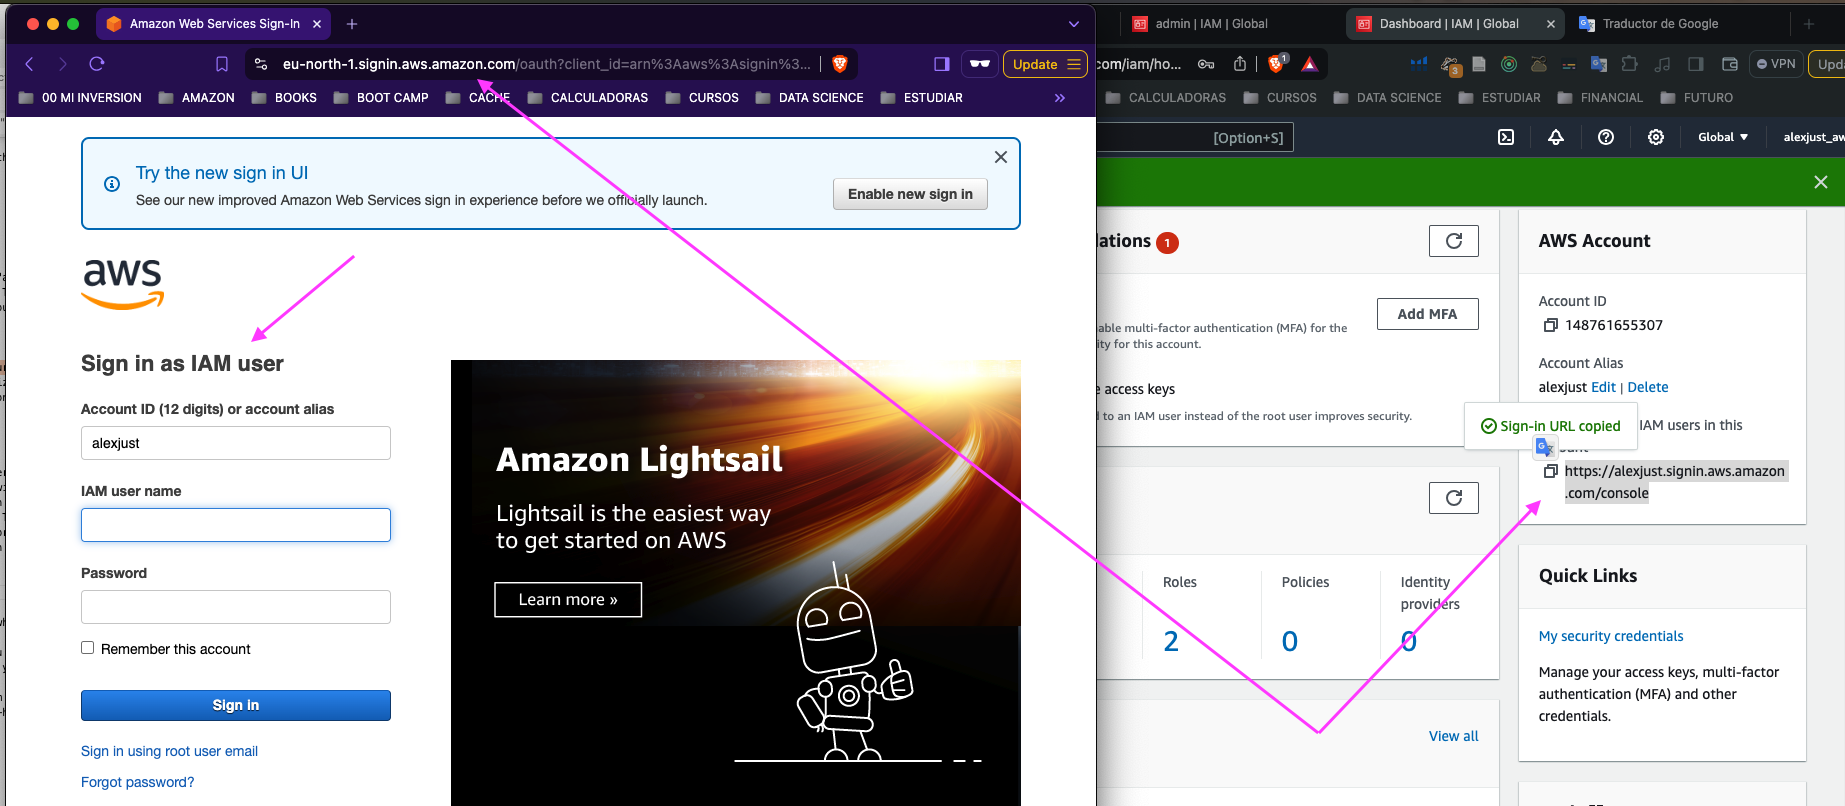
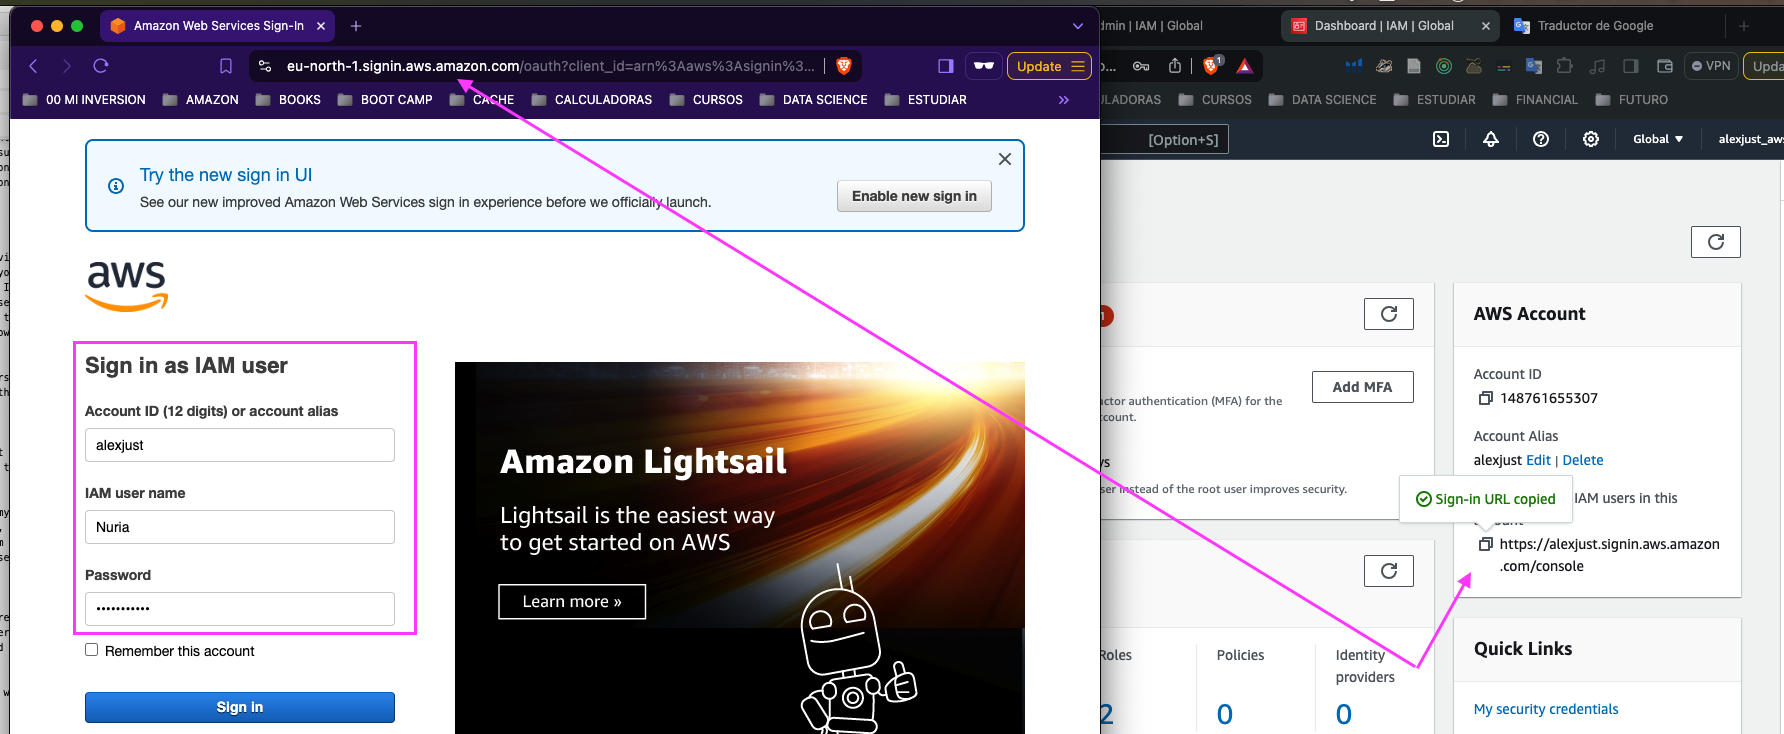
firts commit

diff --git a/README.md b/README.md
@@ -256,14 +256,51 @@ we can look at the permission policies and see that it also has "administrator a
 
 ![](/img/03/22.png)
 
-Now, let’s go back to our dashboard and sign in with our user "Nuria". First, we can look at our user account, which has an account ID and a sign-in URL. You can easily customize this sign-in URL by creating what's called an account alias. For example, it could be "alexjust"." Then click on "Create alias." The alias has to be unique, so if it’s not available, try something like "v5." Using this alias, I can simplify my sign-in URL.
+Now, let’s go back to our dashboard and sign in with our user "Nuria". First, we can look at our user account, which has an account ID and a sign-in URL. You can easily customize this sign-in URL by creating what's called an account alias. For example, it could be "Nuriajust"." Then click on "Create alias." The alias has to be unique, so if it’s not available, try something like "v5." Using this alias, I can simplify my sign-in URL.
 
 ![](/img/03/23.png)
 
-To sign in using my "Nuria" account, we could use the same browser, or we could create a new browser window in private mode. The benefit of doing this is that we can have two windows side by side using AWS. If you don’t do this, that’s fine. But if you log in using the "Nuria" account on the right-hand side window, you will be disconnected on the left-hand side. This is the only difference. To use two accounts simultaneously—the root on the left and my account on the right—a trick I use is opening a private window in my web browser. Chrome, Firefox, and Safari all have this feature. By pasting the sign-in URL, as you can see, I get the sign-in as an IAM user.
+To sign in using my "Nuria" account, we could use the same browser, or we could create a new browser window in private mode. The benefit of doing this is that we can have two windows side by side using AWS. If you don’t do this, that’s fine. But if you log in using the "Nuria" account on the right-hand side window, you will be disconnected on the left-hand side. This is the only difference. To use two accounts simultaneously—the root on the left and my account on the right—a trick I use is opening a private window in my web browser. Chrome, Firefox, and Safari all have this feature. By pasting the sign-in URL, as you can see, I get the sign-in as an IAM user. 
 
 ![](/img/03/24.png)
 
 To get to this page, we can go back to one, and as you can see, when you do a sign-in on AWS, you have the option to sign in as the root user or the IAM user. To get back to this, select IAM user, then enter either the account ID or the account alias that I copied earlier. This will take you to the sign-in page. The IAM username will be "Nuria", and the password will be whatever you set earlier. Then you sign in.
 
 The cool thing is that if I look at the top right-hand side, I am logged in using my IAM user. It displays the account ID and the IAM user. However, if I look at the top right-hand side of the other window, it just shows the account ID, indicating that it’s the root account.
+
+![](/img/03/25.png)
+
+And now, if I look at the top right-hand side here, it just displays the Account ID, indicating that it’s the root account. So, to summarize, we have the root account logged in on the left-hand side through a regular window, and the IAM user logged in on the right-hand side through a private window.
+
+Please ensure you do not lose your root account credentials or your admin login information, as this could lead to significant issues with your account, requiring you to contact AWS support for assistance. Unfortunately, I cannot help you with that. From a course perspective, I recommend using your IAM user rather than your root user, but this is just general advice. Sometimes you'll see me using the root account, and other times I'll be using an IAM user. I will let you know during the course when it's necessary to use the root account or when to use an IAM user, so don't worry about that.
+
+### IAM Policies inheritance
+
+Okay, let's now discuss IAM policies in depth. Imagine we have a group of developers—Alice, Bob, and Charles—and we attach a policy at the group level. In this case, the policy will be applied to every member of the group. So Alice, Bob, and Charles will all get access and inherit this policy. If you have a second group, such as operations, with a different policy, David and Edward will have a different policy from the developers' group. If Fred is a user, he has the option not to belong to any group, and we have the possibility to create what's called an inline policy, which is a policy that is only attached to a specific user. So that user could or could not belong to a group. You can create inline policies for whichever user you want.
+
+Finally, if Charles and David both belong to the audit team, and you attach a policy to the audit team as well, Charles and David will also inherit that policy from the audit team. In this case, Charles has a policy from the developers' group and a policy from the audit team, while David has a policy from the audit team and a policy from the operations team. This should make a lot of sense when we get into the hands-on part.
+
+![](/img/03/26.png)
+
+**IAM Policies Structure**
+
+Now, in terms of policy structure, you just need to know at a high level how it works and how it is named. This is something you will see frequently in AWS, so get familiar with this structure. It is a JSON document. An inline policy structure consists of a version number, which is usually 2012-10-17—this is the policy language version—an ID, which is used to identify the policy (this is optional), and one or more statements. Each statement has several important parts: the SID is the statement ID, which is an identifier for the statement and is also optional. The effect specifies whether the statement allows or denies access to certain APIs; in the example on the right-hand side, it shows "allow," but it could also be "deny." The principal defines which account, user, or role the policy applies to; in this example, it is applied to the root account of your AWS account. The action is the list of API calls that will be either denied or allowed based on the effect, and the resource is a list of resources to which the actions will be applied. In the example, it is a bucket, but it could be many different things. Lastly, there's a condition that specifies when the statement should be applied or not, but this is optional and not represented in the example.
+
+![](/img/03/27.png)
+
+As you prepare for the exam, make sure you thoroughly understand the effect, principal, action, and resource components. Don't worry; you'll encounter these concepts throughout the course, and you should feel confident with them by the end. That's it for this lecture. I hope you enjoyed it, and I will see you in the next lecture.
+
+
+**IAM – Password Policy**
+
+Strong passwords = higher security for your account.  
+In AWS, you can setup a password policy:
+• Set a minimum password length  
+• Require specific character types: • including uppercase letters  
+• lowercase letters  
+• numbers  
+• non-alphanumeric characters
+• Allow all IAM users to change their own passwords
+• Require users to change their password after some time (password expiration)
+• Prevent password re-use
+
